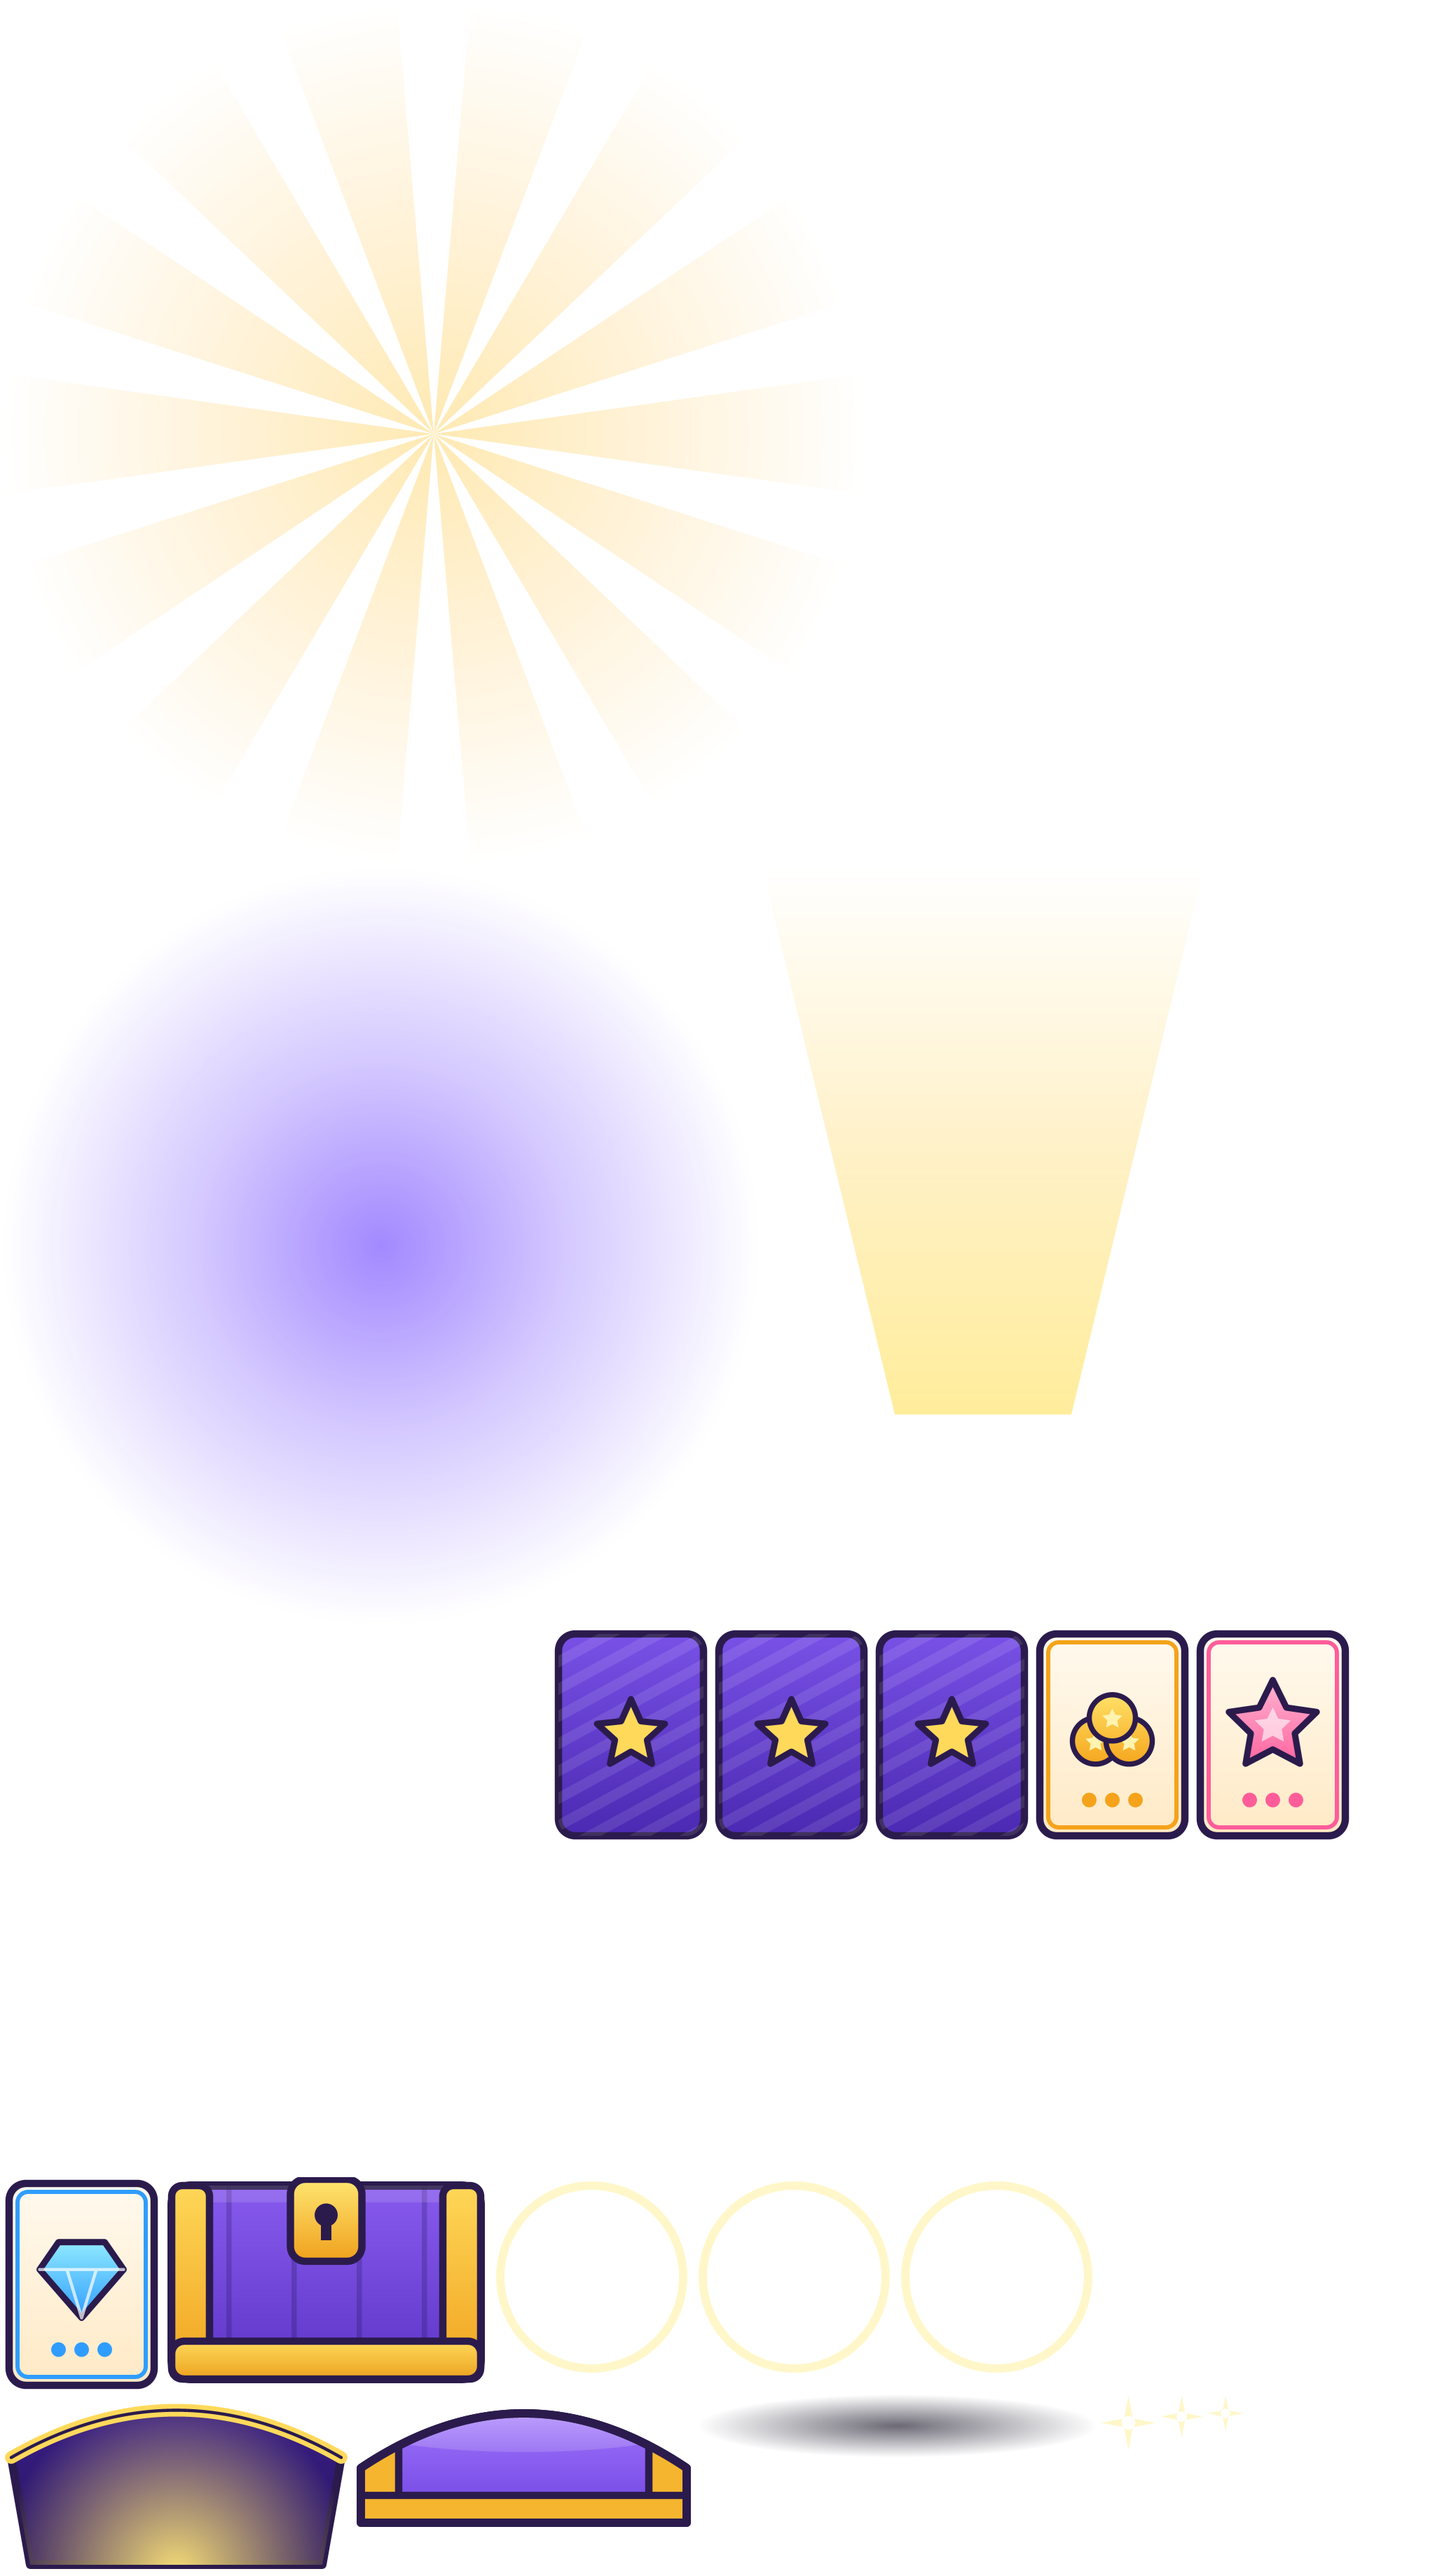
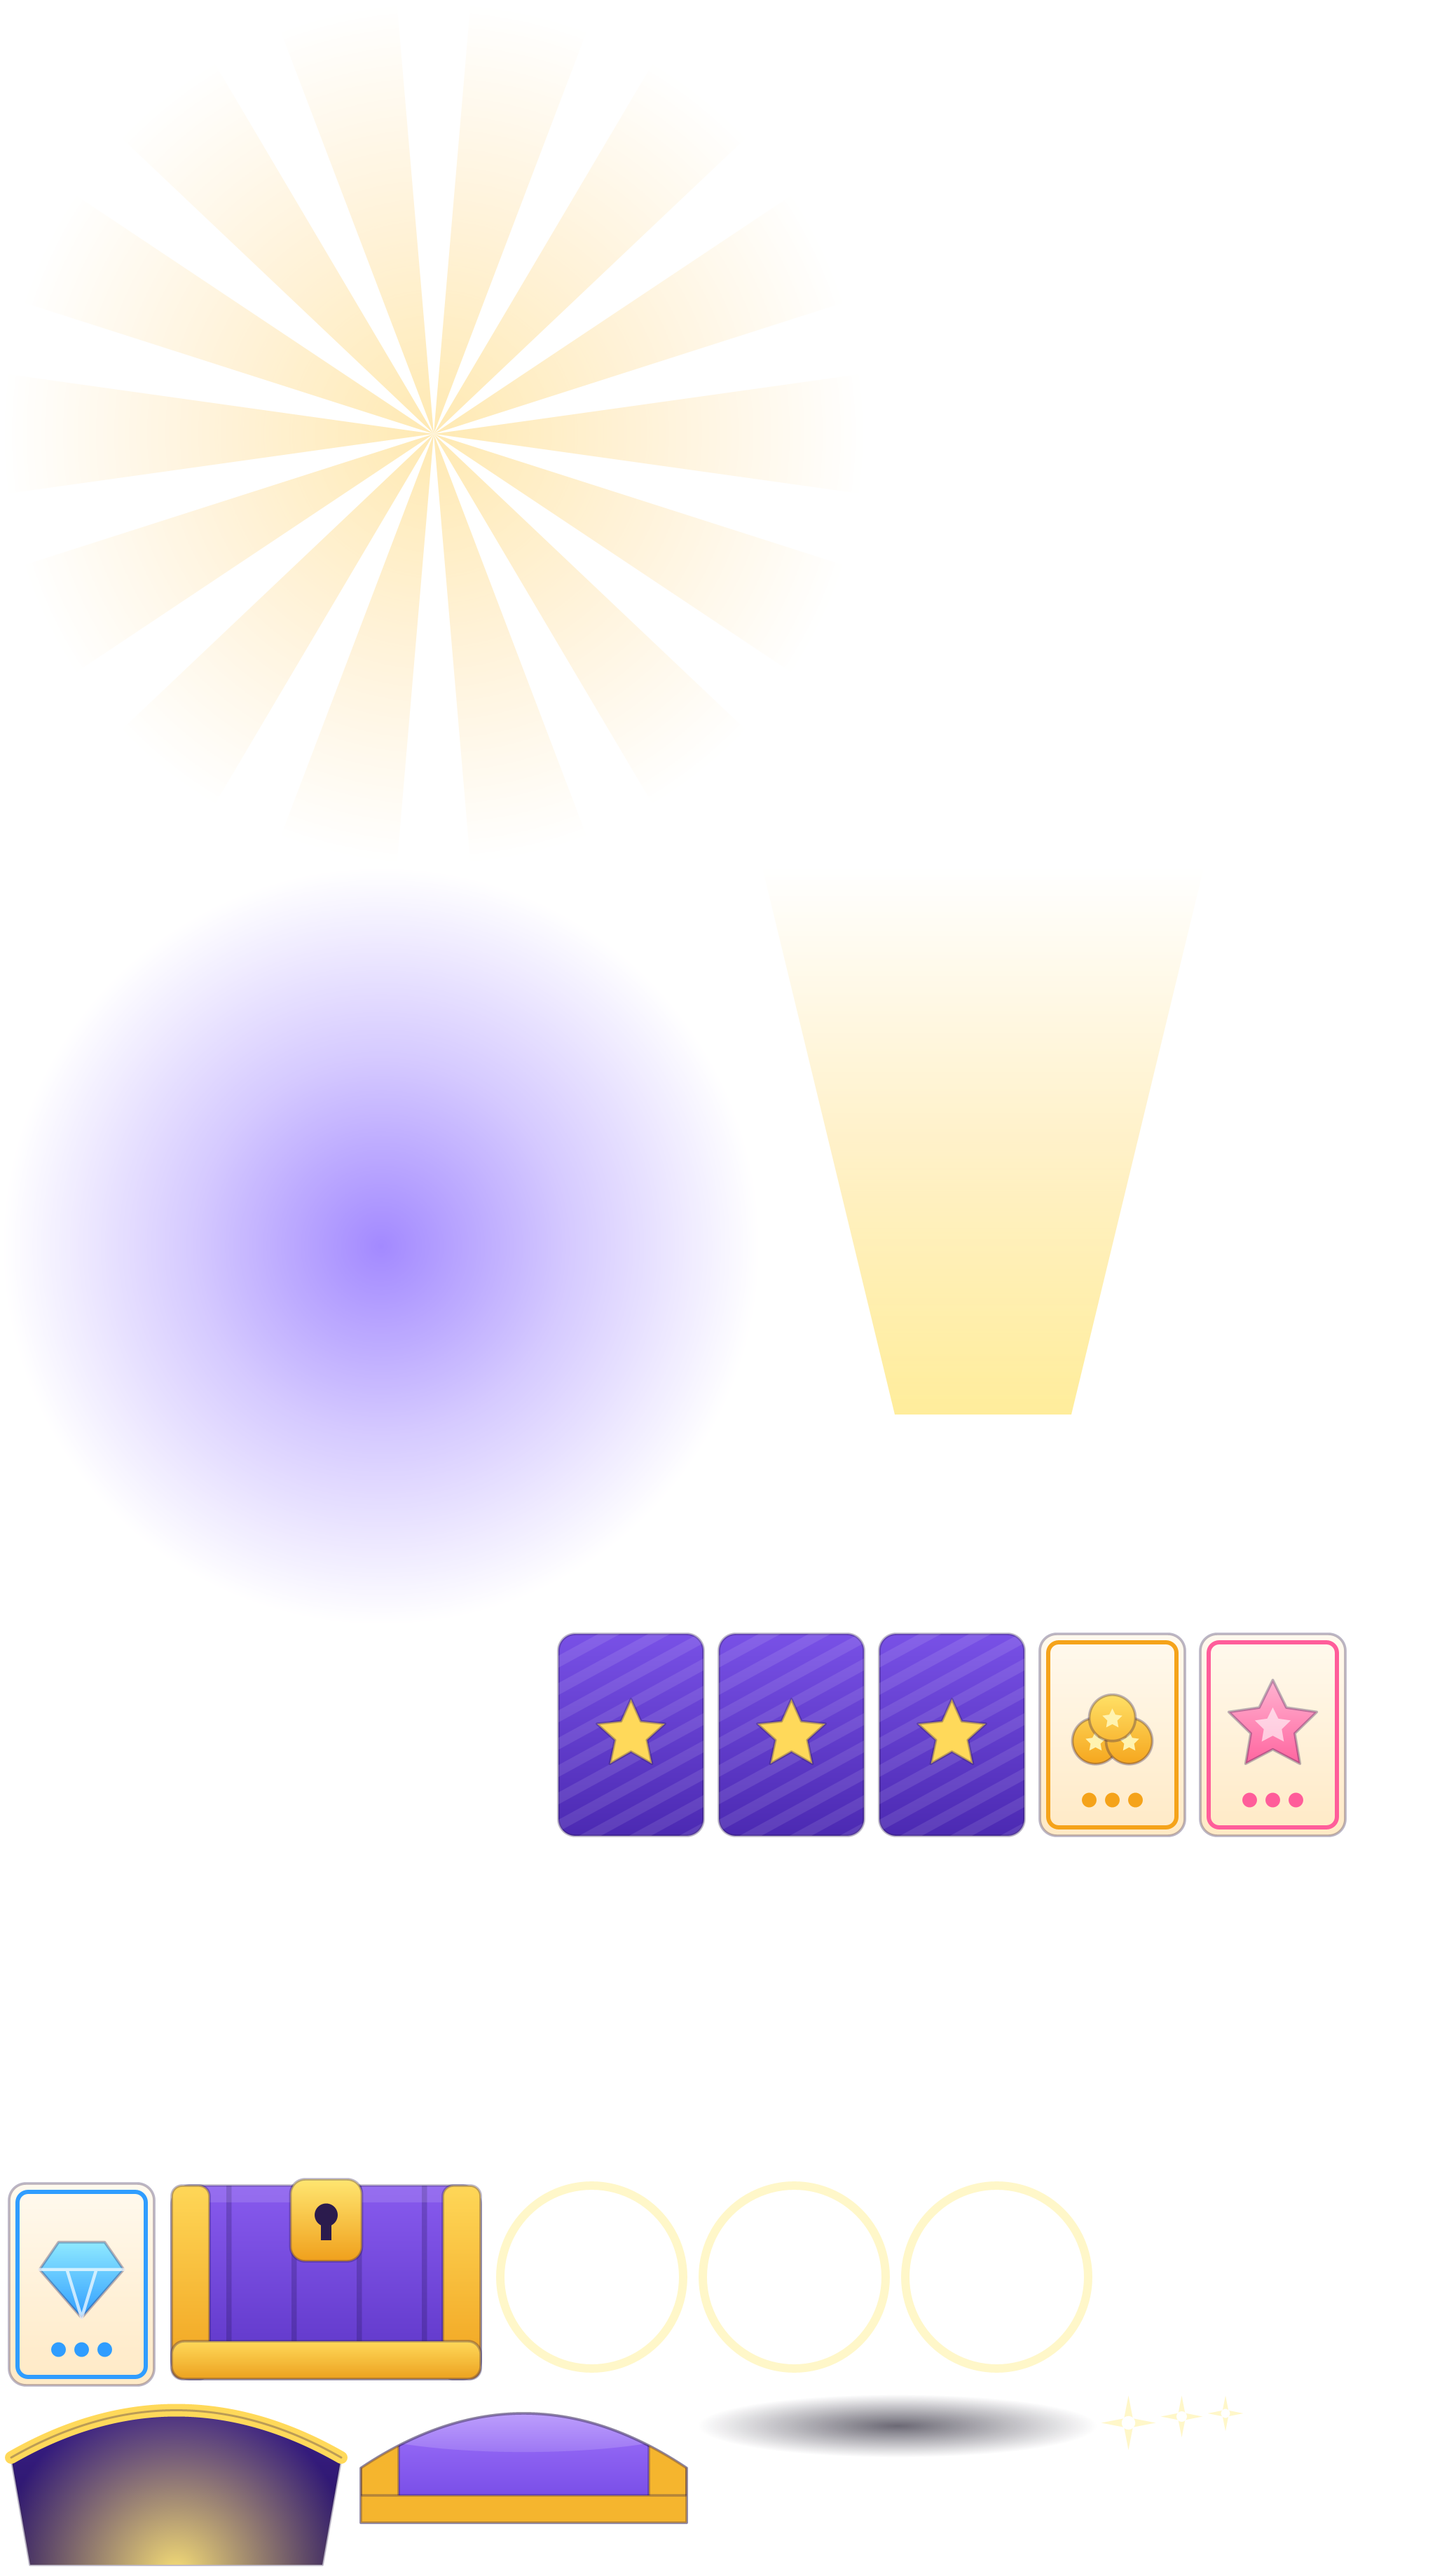
Redraw the button, chest and coin burst examples in the clean look

Changed region(s): [[0.0, 0.8376, 0.5, 1.0], [0.375, 0.6204, 0.9375, 0.7135]]

diff --git a/examples/kit/play-button.js b/examples/kit/play-button.js
@@ -4,7 +4,7 @@
 import path from 'node:path';
 import { fileURLToPath } from 'node:url';
 import { buildRig } from './rig.js';
-import { INK, paint, gloss, glow, shadow } from './style.js';
+import { EDGE, paint, gloss, glow, shadow } from './style.js';
 import { fr, fresh } from './studio.js';
 import { finish, rgba } from './showcase.js';
 
@@ -20,7 +20,7 @@ const FACE = (g, w, h, { off }) => {
   gloss(g, p, 14, 8, w - 28, h * 0.55, off ? 0.3 : 0.5);
 };
 const RIM = (g, w, h, { off }) => { pill(g, w, h); paint(g, off ? '#6f6a80' : '#b5650f', 6); };
-// "PLAY" in thick round strokes with an ink outline, and a play triangle: no font needed
+// "PLAY" in thick round strokes over a soft shadow, and a play triangle: no font needed
 const LETTERS = [
   [[[0, 40], [0, 0], [14, 0]], [[14, 0], 'arc', [14, 11, 11, -Math.PI / 2, Math.PI / 2]], [[14, 22], [0, 22]]], // P
   [[[30, 0], [30, 40], [48, 40]]], // L
@@ -36,10 +36,10 @@ function word(g, color, width) {
     g.stroke();
   }
 }
-const LABEL = (g, w, h) => { g.translate((w - 110) / 2, (h - 40) / 2); word(g, INK, 15); word(g, '#ffffff', 8); };
+const LABEL = (g, w, h) => { g.translate((w - 110) / 2, (h - 40) / 2); g.save(); g.translate(0, 2.5); word(g, 'rgba(150,80,0,0.35)', 9); g.restore(); word(g, '#ffffff', 8); };
 const ICON = (g, w, h) => {
   const tri = () => { g.beginPath(); g.moveTo(10, 8); g.lineTo(w - 8, h / 2); g.lineTo(10, h - 8); g.closePath(); };
-  tri(); g.fillStyle = '#ffffff'; g.fill(); g.strokeStyle = INK; g.lineWidth = 6; g.stroke();
+  tri(); g.fillStyle = '#ffffff'; g.fill(); g.strokeStyle = EDGE; g.lineWidth = 2; g.stroke();
 };
 const SHINE = (g, w, h) => { g.save(); g.translate(w / 2, h / 2); g.rotate(0.35); g.fillStyle = g.linear(-w / 2, 0, w / 2, 0, ['rgba(255,255,255,0)', 'rgba(255,255,255,0.85)', 'rgba(255,255,255,0)']); g.fillRect(-w / 2, -h, w, h * 2); g.restore(); };
 const BADGE = (g, w, h) => {
@@ -80,7 +80,7 @@ const at = (seconds, more) => ({ time: seconds, ...more });
 
 export const brief = {
   name: NAME, title: 'Play button', kind: 'UI', principles: 'ui',
-  subject: 'A game menu Play button with a notification badge, drawn in the kit\'s chunky outline style in the studio\'s amber.',
+  subject: 'A game menu Play button with a notification badge, drawn in the kit\'s clean style (soft gradients, thin tinted edges) in the studio\'s amber.',
   intent: 'Every state a button lives through as a clip, timed for UI: quick, small anticipation, an overshoot sized for a button, every move readable at 160 px wide. The badge plays on track 1 over the idling button on track 0.',
   display: { width: 160, pixelsPerUnit: +(160 / BOUNDS.width).toFixed(3) },
   teaches: ['UI timing', 'overshoot', 'readable at real size', 'tracks'],

diff --git a/examples/kit/chest.js b/examples/kit/chest.js
@@ -5,7 +5,7 @@
 import path from 'node:path';
 import { fileURLToPath } from 'node:url';
 import { buildRig } from './rig.js';
-import { INK, star, paint, gloss, glow, shadow, sparkle } from './style.js';
+import { INK, EDGE, star, paint, gloss, glow, shadow, sparkle } from './style.js';
 import { fr, fresh } from './studio.js';
 import { finish, rgba } from './showcase.js';
 
@@ -31,15 +31,15 @@ const LID = (g, w, h, { open }) => {
     const p = () => { g.beginPath(); g.moveTo(26, h - 8); g.lineTo(8, 60); g.quadraticCurveTo(w / 2, -30, w - 8, 60); g.lineTo(w - 26, h - 8); g.closePath(); };
     p(); paint(g, g.linear(0, 0, 0, h, ['#3a1f8a', '#27135e']), 8);
     g.save(); p(); g.clip(); g.fillStyle = g.radial(w / 2, h, 10, h, ['rgba(255,230,120,0.9)', 'rgba(255,230,120,0)']); g.fillRect(0, 0, w, h); g.restore();
-    g.beginPath(); g.moveTo(8, 60); g.quadraticCurveTo(w / 2, -30, w - 8, 60); g.strokeStyle = '#ffd95a'; g.lineWidth = 12; g.stroke(); g.strokeStyle = INK; g.lineWidth = 3; g.stroke();
+    g.beginPath(); g.moveTo(8, 60); g.quadraticCurveTo(w / 2, -30, w - 8, 60); g.strokeStyle = '#ffd95a'; g.lineWidth = 12; g.stroke(); g.strokeStyle = EDGE; g.lineWidth = 2; g.stroke();
     return;
   }
   const p = () => { g.beginPath(); g.moveTo(8, h - 8); g.lineTo(8, 70); g.quadraticCurveTo(w / 2, -34, w - 8, 70); g.lineTo(w - 8, h - 8); g.closePath(); };
   p(); paint(g, g.linear(0, 0, 0, h, ['#a77bff', '#6a3fe0']), 8); gloss(g, p, 20, 8, w - 40, h * 0.6, 0.35);
   g.save(); p(); g.clip();
-  for (const x of [8, w - 44]) { g.fillStyle = '#f5b52e'; g.fillRect(x, 0, 36, h); g.beginPath(); g.rect(x, -10, 36, h + 20); g.strokeStyle = INK; g.lineWidth = 7; g.stroke(); }
-  g.fillStyle = '#f5b52e'; g.fillRect(0, h - 34, w, 30); g.beginPath(); g.rect(-10, h - 34, w + 20, 40); g.strokeStyle = INK; g.lineWidth = 7; g.stroke();
-  g.restore(); p(); g.strokeStyle = INK; g.lineWidth = 8; g.stroke();
+  for (const x of [8, w - 44]) { g.fillStyle = '#f5b52e'; g.fillRect(x, 0, 36, h); g.beginPath(); g.rect(x, -10, 36, h + 20); g.strokeStyle = EDGE; g.lineWidth = 2.5; g.stroke(); }
+  g.fillStyle = '#f5b52e'; g.fillRect(0, h - 34, w, 30); g.beginPath(); g.rect(-10, h - 34, w + 20, 40); g.strokeStyle = EDGE; g.lineWidth = 2.5; g.stroke();
+  g.restore(); p(); g.strokeStyle = EDGE; g.lineWidth = 2.5; g.stroke();
 };
 const BEAM = (g, w, h) => {
   g.fillStyle = g.linear(0, h, 0, 0, ['rgba(255,236,150,0.95)', 'rgba(255,220,120,0.4)', 'rgba(255,220,120,0)']);

diff --git a/examples/kit/style.js b/examples/kit/style.js
@@ -1,7 +1,10 @@
-// The shared look of the showcase art: flat gradients, a chunky dark outline, a soft gloss.
+// The shared look of the showcase art: soft gradients, a thin edge a shade darker than the fill
+// (never a dark cartoon outline), a soft gloss.
 // Colours follow the brand (key amber, onion violet) where the art carries the studio's voice.
 
 export const INK = '#2b1b4d';
+/** The edge drawn around a shape: translucent, so it reads as the fill a shade darker. */
+export const EDGE = 'rgba(43,27,77,0.32)';
 export const AMBER = ['#ffd27a', '#f4ae3f', '#d98a1c'];
 export const VIOLET = ['#b3a8ff', '#8b7bff', '#5b4be0'];
 
@@ -11,10 +14,10 @@ export function star(g, cx, cy, outer, inner, n = 5, rot = -Math.PI / 2) {
   for (let i = 0; i < n * 2; i++) { const r = i % 2 ? inner : outer, a = rot + i * Math.PI / n; g[i ? 'lineTo' : 'moveTo'](cx + Math.cos(a) * r, cy + Math.sin(a) * r); }
   g.closePath();
 }
-/** Fill the current path, then outline it in ink. */
+/** Fill the current path, then give it a thin edge a shade darker than the fill. */
 export function paint(g, fill, line = 6) {
   g.fillStyle = fill; g.fill();
-  if (line) { g.strokeStyle = INK; g.lineWidth = line; g.stroke(); }
+  if (line) { g.strokeStyle = EDGE; g.lineWidth = Math.min(line, 2.5); g.stroke(); }
 }
 /** A soft white highlight on the top of the shape `path` (a function that rebuilds the path). */
 export function gloss(g, path, x, y, w, h, alpha = 0.38) {

diff --git a/examples/kit/studio.js b/examples/kit/studio.js
@@ -78,7 +78,7 @@ export async function prove(dir, name, brief) {
   const { critiqueAnimation } = await import('../../src/understand/critique.js');
   for (const clip of brief.clips) {
     if (!sk.animations[clip.name]) { problems.push(`${clip.name}: missing`); continue; }
-    const c = critiqueAnimation(sk, clip.name, { loop: clip.loop, pixelsPerUnit: brief.display.pixelsPerUnit });
+    const c = critiqueAnimation(sk, clip.name, { loop: clip.loop, pixelsPerUnit: brief.display.pixelsPerUnit, subject: brief.principles });
     for (const x of c.findings.filter(x => x.level === 'warn')) problems.push(`${clip.name}: ${x.code} ${x.message}`);
   }
   console.log(`${name}: ${Object.keys(sk.animations).length} clips, check ${check.summary ?? ''}`);

diff --git a/CHANGELOG.md b/CHANGELOG.md
@@ -20,6 +20,7 @@ All notable changes to this project. The format follows
 - The `figure` component draws a waist-up character by default (`build: upper`): a torso that breathes at the waist, a head, eyes as their own part so they blink, hair behind, and tapered arms with hands. The full-body `kid` and `adult` builds are there when a full body is asked for.
 - A side-view `figure` (`build: side`) for platformers and side-scrollers: a character in profile facing right, its far arm and leg behind the body a tone darker, every limb in three parts turning at its joint, the body carrying everything from the hips. The Director picks the view from the use: profile for a game character that runs and jumps, waist-up and facing out for dialogue and portraits.
 - Clip exports are ready for a game: every clip of a skeleton is framed alike (same size, feet on the same pixel row), the sheet's map gives the ground origin (`meta.origin`, each frame's `pivot`) and whether the clip loops; a loop leaves out its closing copy of the first frame, and `loop: false` marks a one-shot such as a jump.
+- The PLAY button, the reward chest and the coin burst examples are redrawn in the clean look: soft gradients and a thin edge a shade darker than each fill instead of a thick dark outline. The examples build judges each clip as its brief's subject (a button is not held to a body's idle).
 - Mika waves the way people do: the elbow out to the side and the forearm upright beside her face, instead of folding the arm over her head. `critique_animation` now reads a wave at the face (the hand's tip up to the eyes or higher), not above the top of the head.
 - A weak critique is never passed off as done: `reply` refuses "ready" after a "faulty" critique, and after a "mechanical" one unless `weak` tells the owner plainly what is still weak.
 - The prove step is enforced: the studio keeps a ledger of what was written and what proved it (`.keyframe/proof.json`). `reply` refuses work "ready" for a clip that was not checked with `check_skeleton` and critiqued with `critique_animation` after its last write, or a drawing not critiqued with `critique_art`; a Director turn that ends with unproven writes says so in plain words.

diff --git a/examples/showcase/play-button/README.md b/examples/showcase/play-button/README.md
@@ -1,6 +1,6 @@
 # Play button
 
-A game menu Play button with a notification badge, drawn in the kit's chunky outline style in the studio's amber.
+A game menu Play button with a notification badge, drawn in the kit's clean style (soft gradients, thin tinted edges) in the studio's amber.
 
 Every state a button lives through as a clip, timed for UI: quick, small anticipation, an overshoot sized for a button, every move readable at 160 px wide. The badge plays on track 1 over the idling button on track 0.
 
